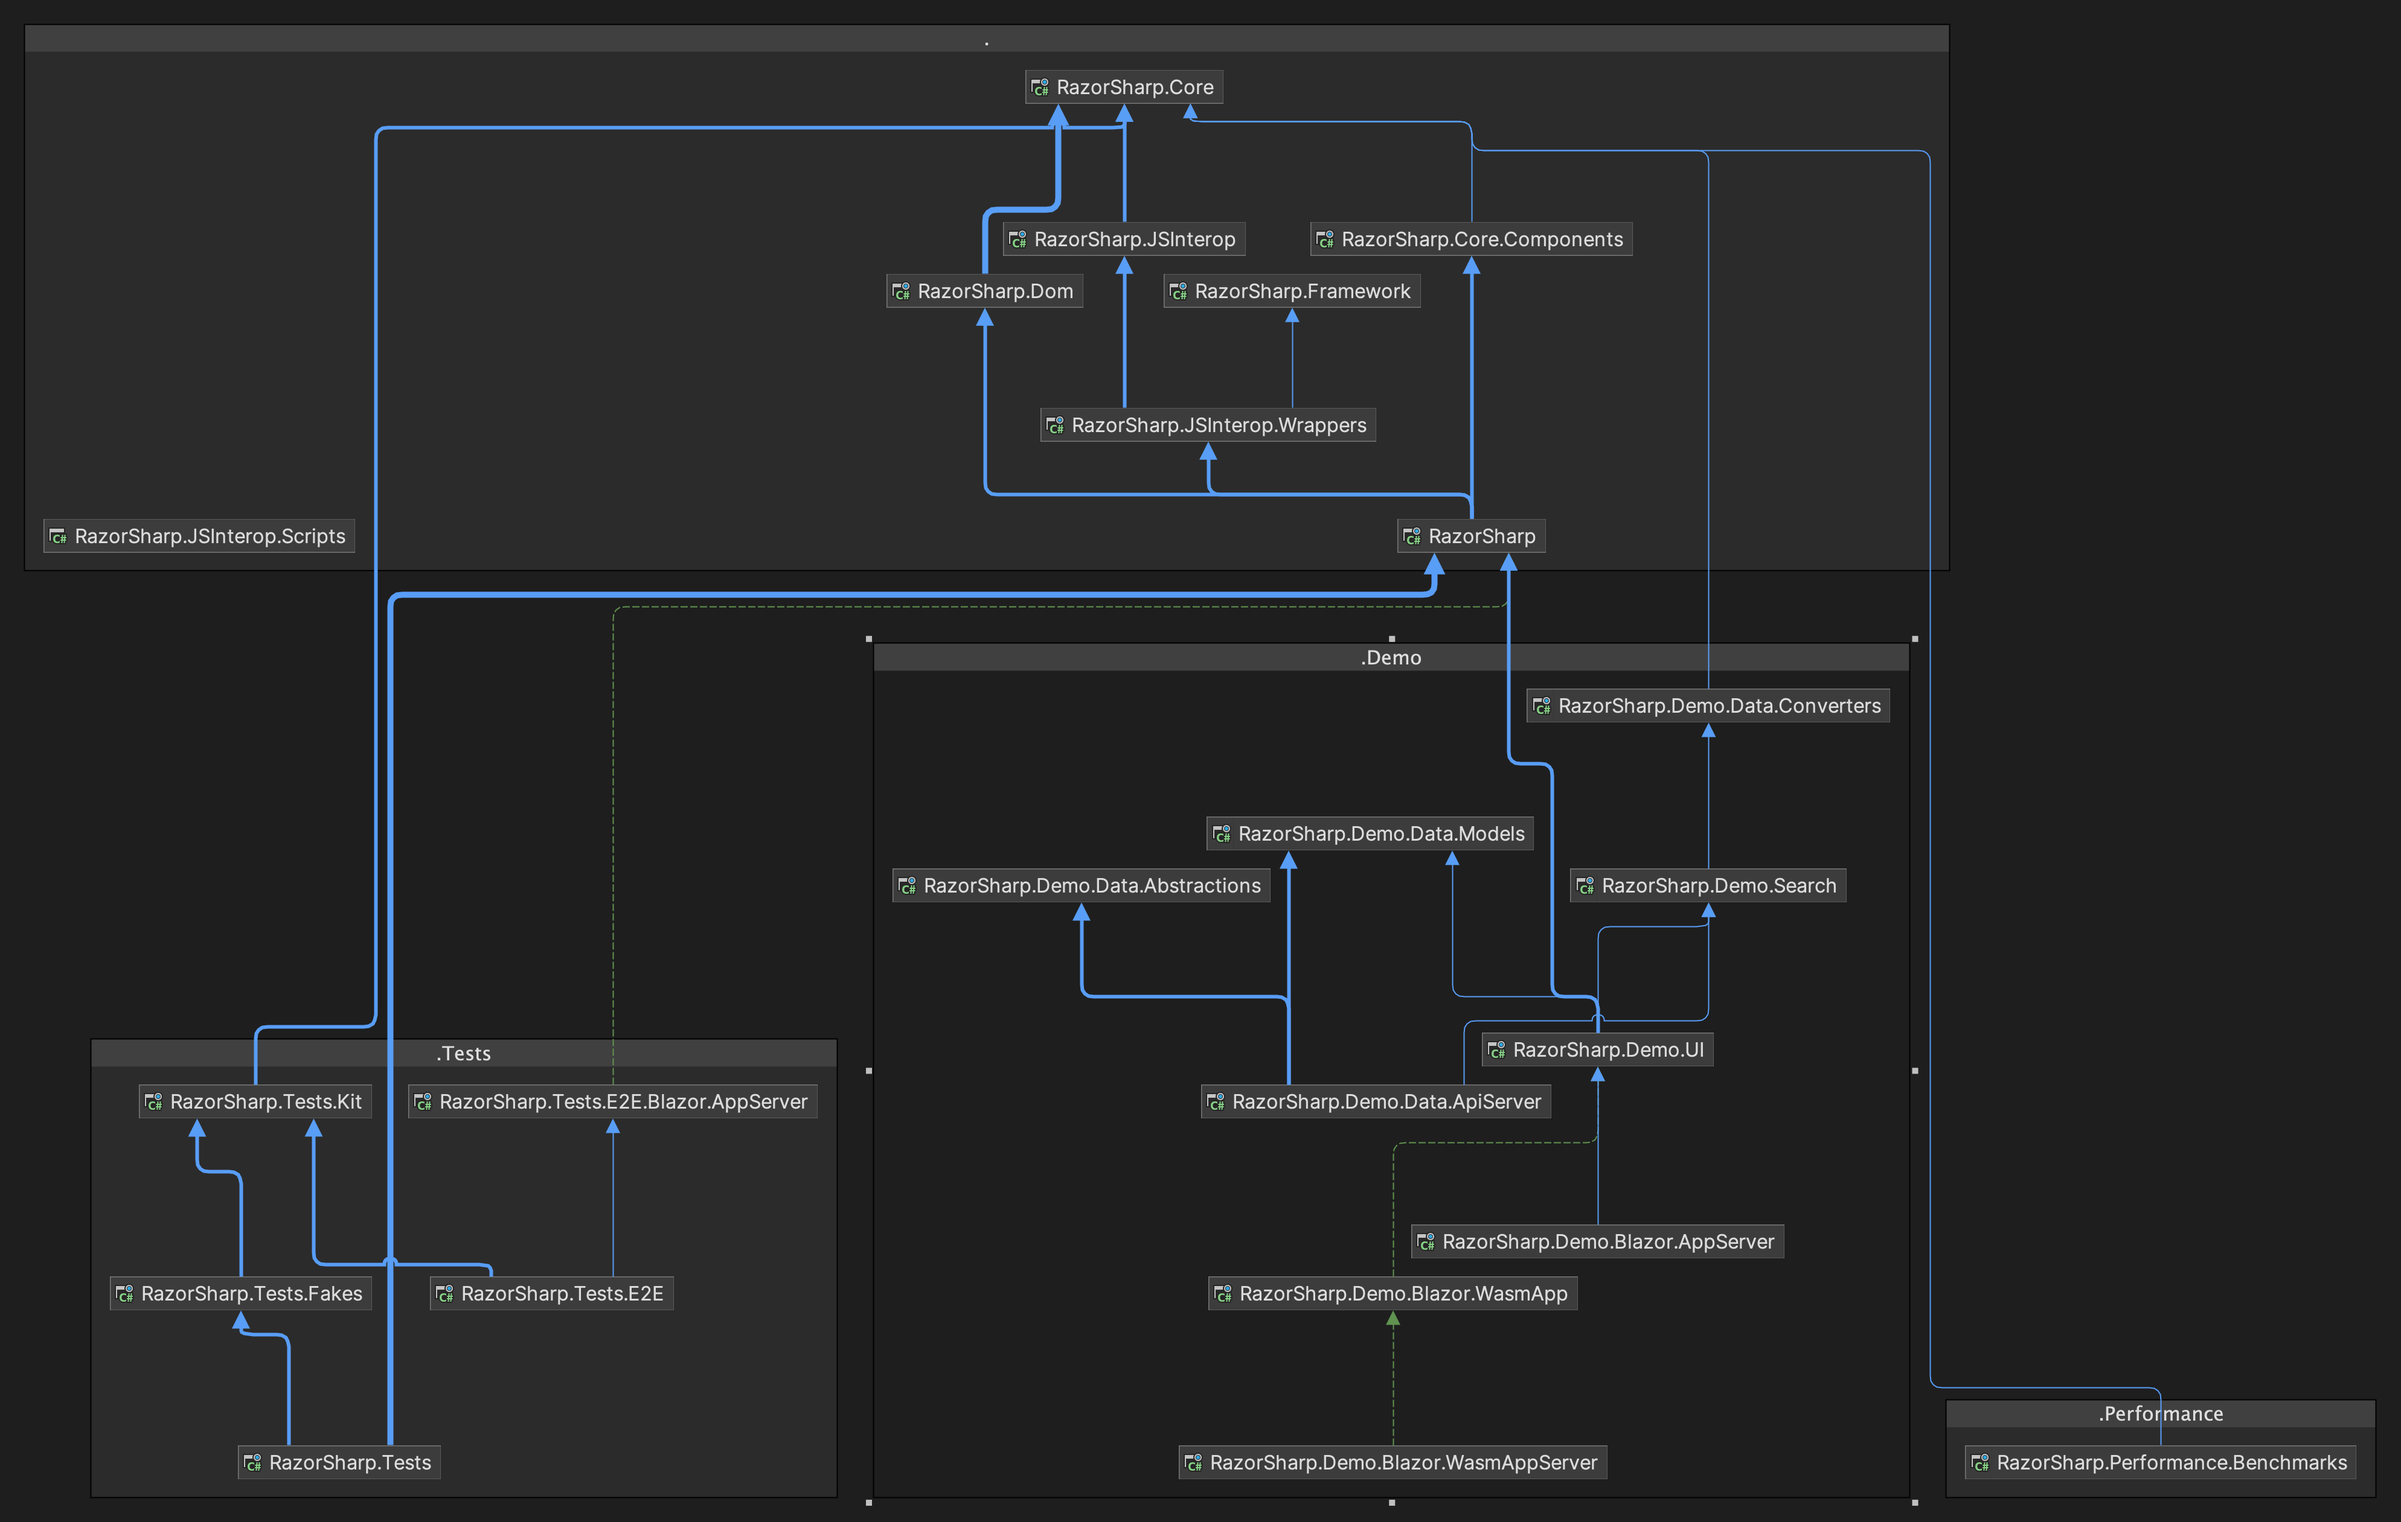
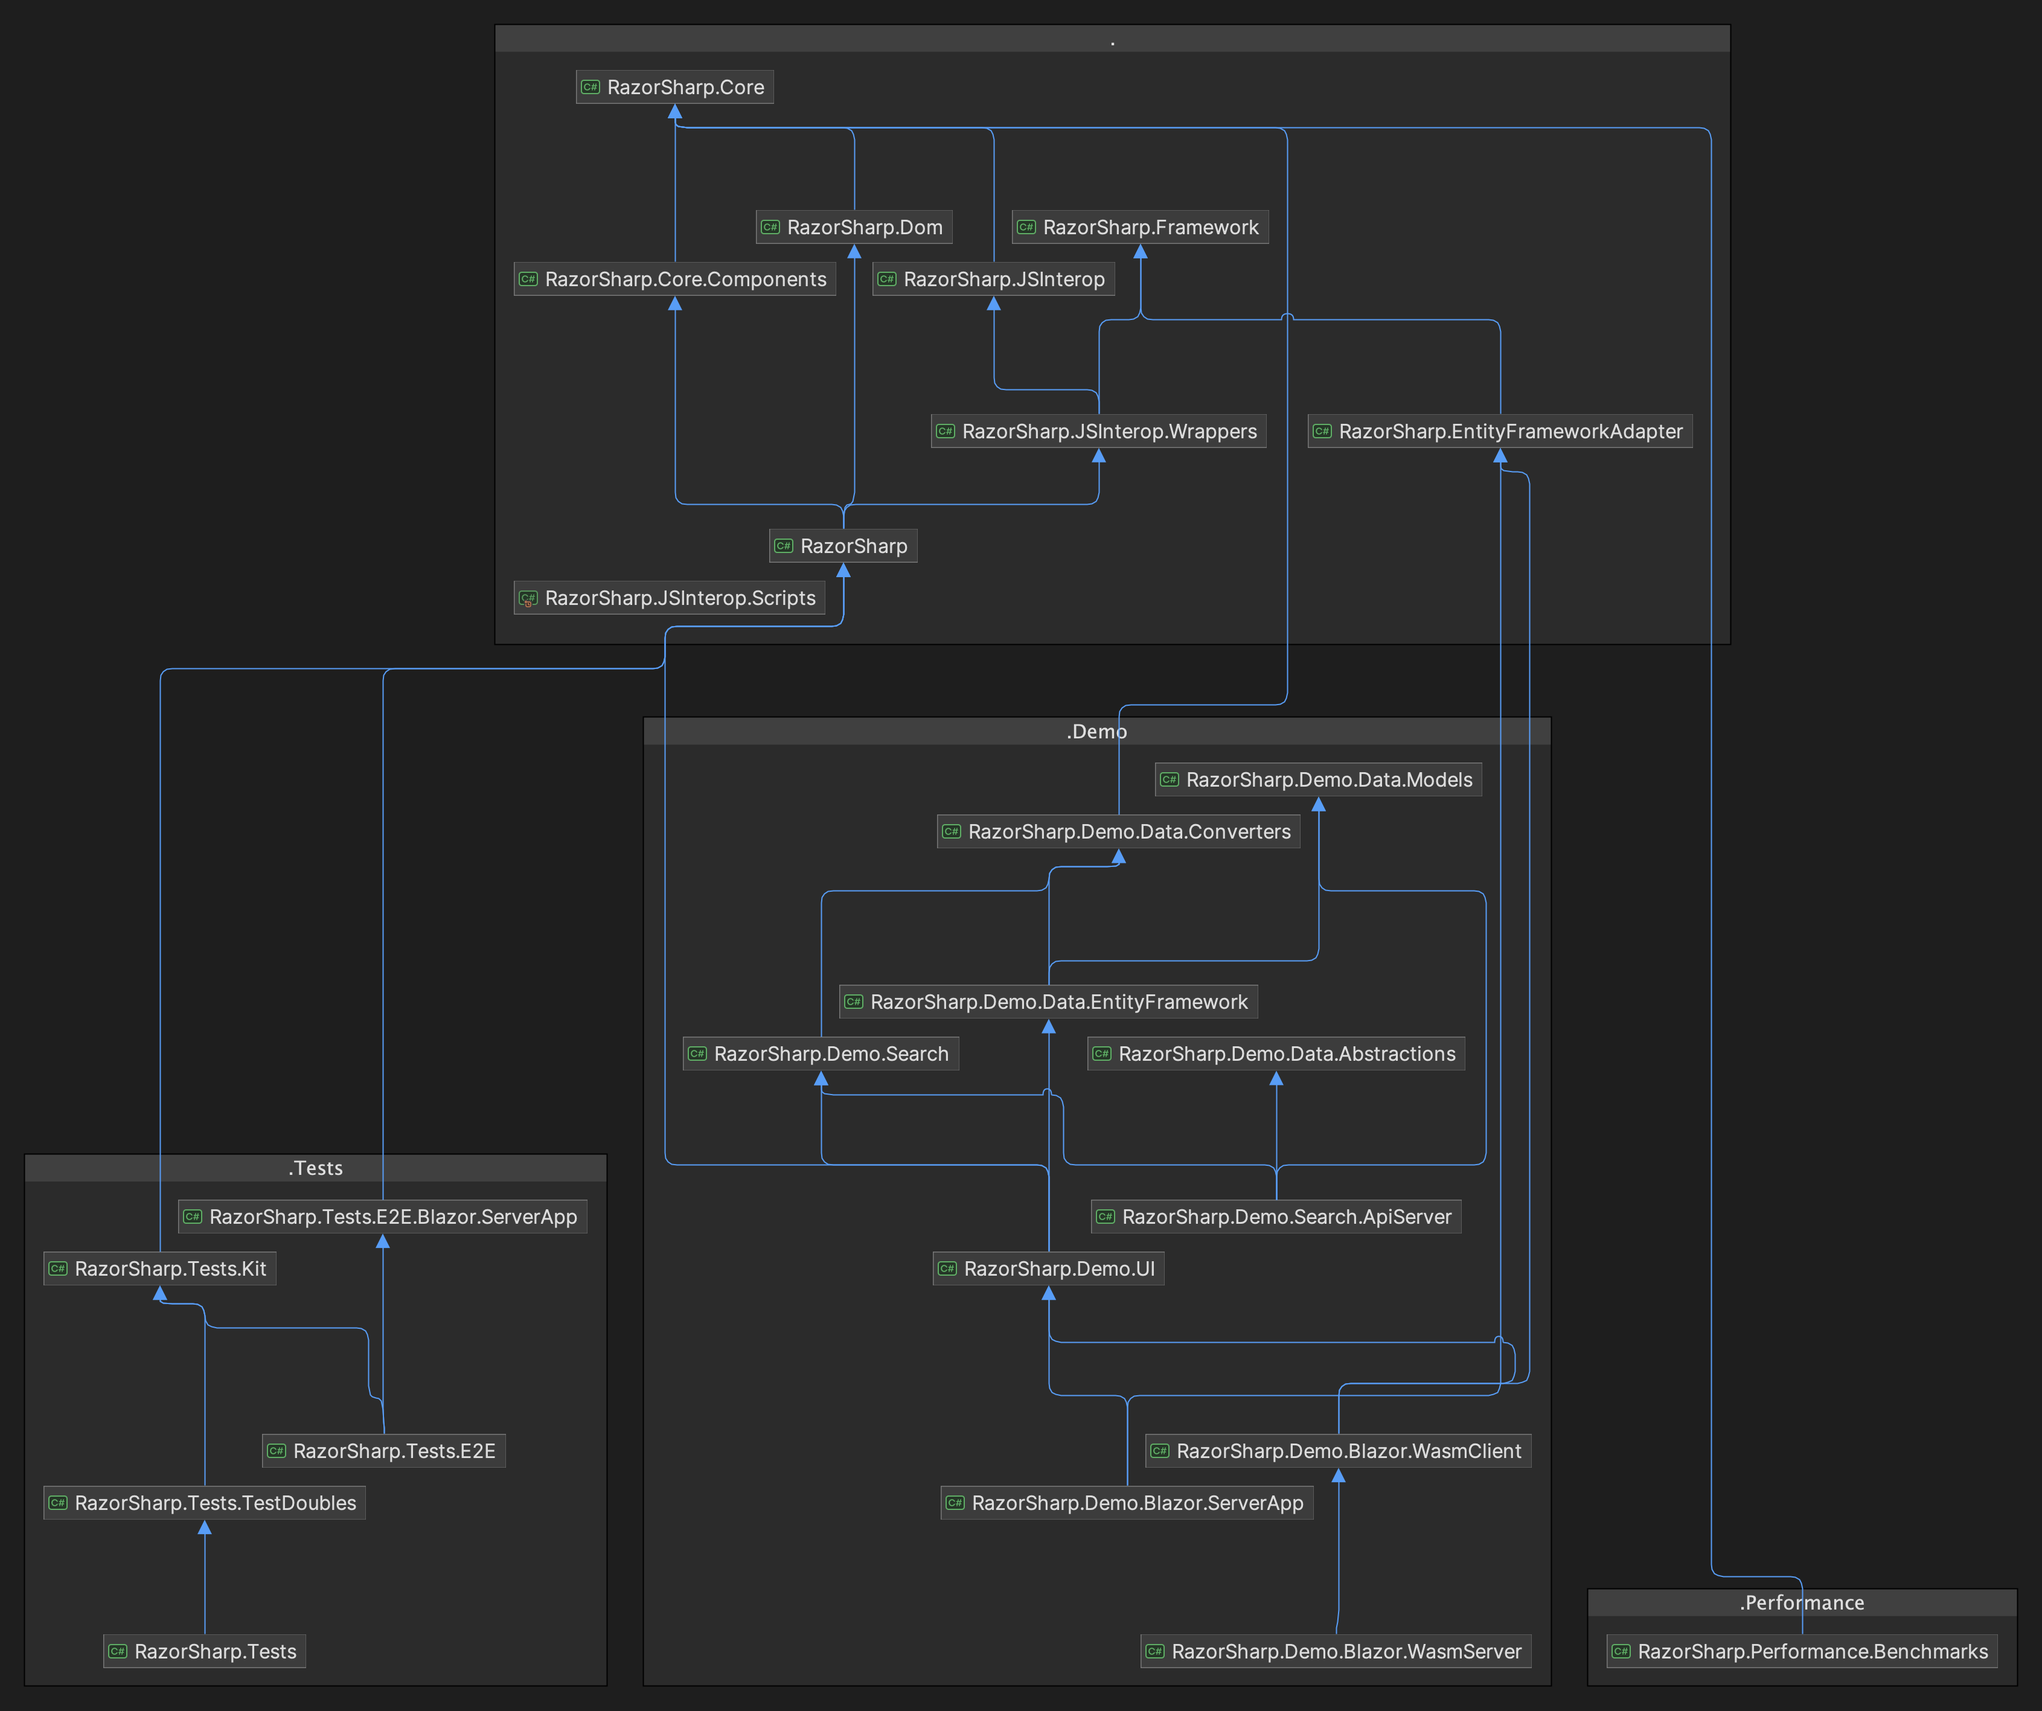
Rename projects and files and update the README.md to align with the modifications

diff --git a/src/RazorSharp.Demo.Blazor.WasmClient/wwwroot/index.html b/src/RazorSharp.Demo.Blazor.WasmClient/wwwroot/index.html
@@ -6,7 +6,7 @@
     <title>RazorSharp.Demo.Blazor.WasmApp</title>
     <base href="/"/>
     <link href="css/app.css" rel="stylesheet"/>
-    <link href="RazorSharp.Demo.Blazor.WasmApp.styles.css" rel="stylesheet"/>
+    <link href="RazorSharp.Demo.Blazor.WasmClient.styles.css" rel="stylesheet"/>
 </head>
 
 <body>

diff --git a/src/RazorSharp.Demo.Blazor.WasmClient/Program.cs b/src/RazorSharp.Demo.Blazor.WasmClient/Program.cs
@@ -14,7 +14,7 @@ builder.RootComponents.Add<HeadOutlet>("head::after");
 builder.Services.AddScoped(_ => new HttpClient { BaseAddress = new Uri(builder.HostEnvironment.BaseAddress) });
 builder.Services.AddRazorSharpEntityFrameworkAdapter();
 builder.Services.AddProductsDbContext();
-builder.Services.AddHttpClient("DataServer",
+builder.Services.AddHttpClient("ApiServer",
                                http => {
                                    http.BaseAddress = new Uri("https://localhost:7020");
                                });

diff --git a/src/RazorSharp.Demo.Search.ApiServer/Services/PeopleDataHandler.cs b/src/RazorSharp.Demo.Search.ApiServer/Services/PeopleDataHandler.cs
@@ -1,4 +1,4 @@
-namespace RazorSharp.Demo.Data.ApiServer.Services;
+namespace RazorSharp.Demo.Search.ApiServer.Services;
 
 using System.Collections.Immutable;
 using System.Text;
@@ -8,7 +8,6 @@ using RazorSharp.Core.Contracts;
 using RazorSharp.Demo.Data.Abstractions.Services;
 using RazorSharp.Demo.Data.Converters.Json;
 using RazorSharp.Demo.Data.Models;
-using RazorSharp.Demo.Search;
 
 public sealed class PeopleDataHandler : IDataProvider<IReadOnlyDictionary<Person, StringBuilder>>, IDataLoader
 {

diff --git a/src/RazorSharp.Tests.E2E/TestServerHostFixture.cs b/src/RazorSharp.Tests.E2E/TestServerHostFixture.cs
@@ -1,4 +1,4 @@
-extern alias E2eServerApp;
+extern alias E2EServerApp;
 
 namespace RazorSharp;
 
@@ -6,7 +6,7 @@ using RazorSharp.Tests.Kit;
 
 public sealed class TestServerHostFixture : ITestServerHost
 {
-    private readonly ITestServerHost _testServerHost = new TestServerHostFactory<E2eServerApp::Program>();
+    private readonly ITestServerHost _testServerHost = new TestServerHostFactory<E2EServerApp::Program>();
 
     public string ServerAddress
         => _testServerHost.ServerAddress;

diff --git a/src/RazorSharp.Demo.Blazor.ServerApp/Program.cs b/src/RazorSharp.Demo.Blazor.ServerApp/Program.cs
@@ -9,7 +9,7 @@ builder.Services.AddRazorPages();
 builder.Services.AddServerSideBlazor();
 builder.Services.AddRazorSharpEntityFrameworkAdapter();
 builder.Services.AddProductsDbContext();
-builder.Services.AddHttpClient("DataServer",
+builder.Services.AddHttpClient("ApiServer",
                                http => {
                                    http.BaseAddress = new Uri("https://localhost:7020");
                                });

diff --git a/src/RazorSharp.Demo.Search.ApiServer/Controllers/PeopleController.cs b/src/RazorSharp.Demo.Search.ApiServer/Controllers/PeopleController.cs
@@ -1,4 +1,4 @@
-namespace RazorSharp.Demo.Data.ApiServer.Controllers;
+namespace RazorSharp.Demo.Search.ApiServer.Controllers;
 
 using System.Text;
 
@@ -6,7 +6,6 @@ using Microsoft.AspNetCore.Mvc;
 
 using RazorSharp.Demo.Data.Abstractions.Services;
 using RazorSharp.Demo.Data.Models;
-using RazorSharp.Demo.Search;
 
 [ApiController]
 [Route("api/[controller]")]

diff --git a/src/RazorSharp.Demo.Search.ApiServer/Program.cs b/src/RazorSharp.Demo.Search.ApiServer/Program.cs
@@ -3,8 +3,8 @@ using System.Text;
 using Microsoft.Extensions.DependencyInjection.Extensions;
 
 using RazorSharp.Demo.Data.Abstractions.Services;
-using RazorSharp.Demo.Data.ApiServer.Services;
 using RazorSharp.Demo.Data.Models;
+using RazorSharp.Demo.Search.ApiServer.Services;
 
 var builder = WebApplication.CreateBuilder(args);
 

diff --git a/src/RazorSharp.Demo.Search.ApiServer/Services/PeopleDataService.cs b/src/RazorSharp.Demo.Search.ApiServer/Services/PeopleDataService.cs
@@ -1,4 +1,4 @@
-namespace RazorSharp.Demo.Data.ApiServer.Services;
+namespace RazorSharp.Demo.Search.ApiServer.Services;
 
 using RazorSharp.Core.Contracts;
 using RazorSharp.Demo.Data.Abstractions.Services;

diff --git a/src/RazorSharp.Demo.Blazor.ServerApp/Pages/_Host.cshtml.cs b/src/RazorSharp.Demo.Blazor.ServerApp/Pages/_Host.cshtml.cs
@@ -1,4 +1,4 @@
-namespace RazorSharp.Demo.Blazor.AppServer.Pages;
+namespace RazorSharp.Demo.Blazor.ServerApp.Pages;
 
 using Microsoft.AspNetCore.Mvc.RazorPages;
 
